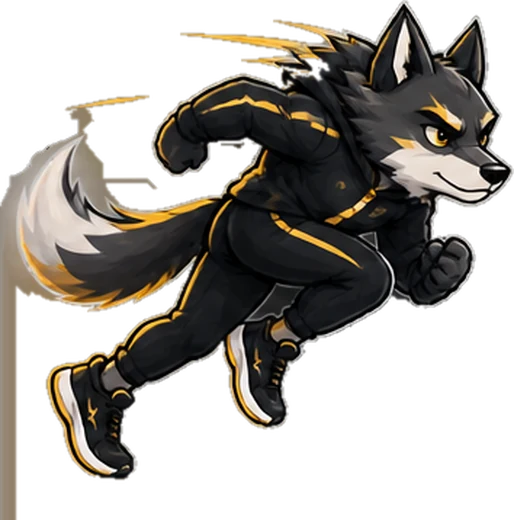
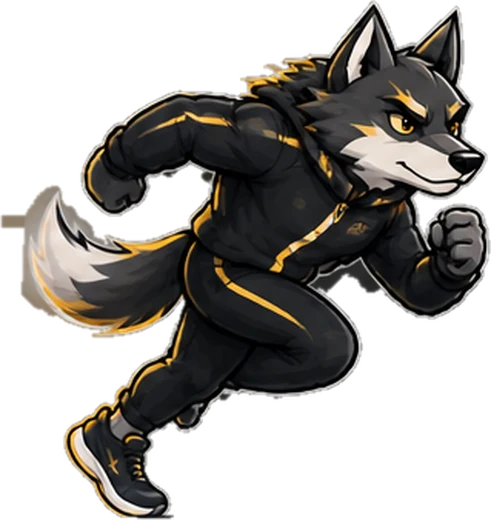
feat: el icono de Koda es el logotipo, y el personaje gana dos trabajos mas
El logotipo era un icono de linea sobre un degradado ambar hecho en CSS.
Ahora es el icono de aplicacion de verdad, el mismo fichero que se instala
en la pantalla de inicio del movil. No es ahorro: la pestaña, el marcador y
el icono del telefono tienen que ser reconociblemente la misma cosa. Va en
la cabecera y el pie de la portada y en el rail de la aplicacion.

En el avatar de cada mensaje sigue el icono de linea, por lo mismo que dice
el ADR-018: ahi lo que hace falta es saber quien hablo, y para eso un icono
es mejor que un retrato de 28 px.

Dos poses mas, cada una con su trabajo:

- Koda riendo cuando aparece un plan que antes no estaba. Se detecta
  comparando la huella del plan, y nunca en la primera carga: abrir la app
  con el plan de hace tres semanas no es una novedad que celebrar.
- Koda corriendo llena el hueco de "todavia no tienes plan". Era la unica
  pantalla vacia de verdad del panel, y un icono de linea gris en una
  pantalla vacia se lee como algo que fallo al cargar.

Para que la primera pueda dispararse, el panel del plan se recarga al
terminar cada turno. Hacia falta igualmente: Koda crea el plan con una
herramienta y el navegador no se enteraba, asi que el runner oia "ya te lo
arme" y el panel seguia enseñando el plan viejo. Solo repinta si de verdad
cambio algo, para no relanzar la cascada de entrada en cada frase.

Arreglado el recorte de la pose corriendo: la de la izquierda de la hoja
[…]

diff --git a/app/interfaces/web/app.js b/app/interfaces/web/app.js
@@ -193,14 +193,21 @@ function estado(texto) {
   estadoKoda.textContent = texto || ESTADO_EN_REPOSO;
 }
 
-/* La cara de la cabecera cambia de gesto cuando algo sale mal, y vuelve sola.
-   Es la unica expresion que se dispara: un personaje que sonrie en cada mensaje
-   deja de significar nada, y la queja de siempre de un chat es que el error se lee
-   igual que una respuesta normal. El gesto lo hace visible sin un cartel rojo.
+/* La cara de la cabecera cambia de gesto y vuelve sola. Solo dos cosas lo disparan,
+   y las dos son hechos, no estados de ánimo:
 
-   Las dos caras se precargan al arrancar; sin eso el cambio empieza con el hueco
-   en blanco y se lee como un fallo de carga, justo cuando ya hubo uno de verdad. */
-const CARAS = { normal: "/koda/cara.webp", duda: "/koda/cara-duda.webp" };
+   - algo falló — la queja de siempre de un chat es que un error se lee igual que
+     una respuesta normal; el gesto lo hace visible sin un cartel rojo;
+   - acabas de tener un plan que antes no tenías.
+
+   Un personaje que reacciona a cada mensaje deja de significar nada. Las caras se
+   precargan al arrancar; sin eso el cambio empieza con el hueco en blanco y se lee
+   como un fallo de carga, justo cuando a lo mejor ya hubo uno de verdad. */
+const CARAS = {
+  normal: "/koda/cara.webp",
+  duda: "/koda/cara-duda.webp",
+  celebra: "/koda/cara-rie.webp",
+};
 const caraKoda = document.getElementById("cara-koda");
 let vueltaAlaCalma = null;
 
@@ -370,6 +377,7 @@ async function enviarMensaje({ texto, audioBlob, foto, mensajeUsuarioYaPuesto = 
     }
     const data = await resp.json();
     respuesta.escribir(data.texto);
+    refrescarPlanTrasElTurno();
     if (data.audio_base64) reproducirMp3(data.audio_base64, respuesta);
   } catch {
     dejarDeEsperar();
@@ -688,6 +696,7 @@ function manejarMensajeVoz(evento) {
       sesionVoz.mensajeActual?.hablando(false);
       sesionVoz.rolActual = null;
       sesionVoz.mensajeActual = null;
+      refrescarPlanTrasElTurno();
       // Un turno por sesion en esta version: se cierra aqui, no al soltar el
       // boton. El audio ya agendado sigue sonando — finalizarSesionVoz() espera
       // a que termine antes de cerrar el AudioContext.
@@ -1306,13 +1315,20 @@ function pintarPlan(plan) {
   contenidoPlan.replaceChildren();
 
   if (!plan) {
-    contenidoPlan.appendChild(
-      nodoVacio(
-        "meta",
-        "Todavía no tienes plan",
-        "Dile a Koda qué carrera quieres correr y para cuándo. Te lo arma en el momento.",
-      ),
+    // Aquí Koda sale corriendo y no como un icono de línea: es la única pantalla del
+    // panel que está vacía de verdad, y un hueco con una silueta gris se lee como
+    // algo que falló al cargar. Con el personaje se lee como lo que es — todavía no
+    // hay nada porque no se lo has pedido.
+    const vacio = nodoVacio(
+      "meta",
+      "Todavía no tienes plan",
+      "Dile a Koda qué carrera quieres correr y para cuándo. Te lo arma en el momento.",
     );
+    vacio.classList.add("vacio-con-koda");
+    vacio.querySelector("svg")?.replaceWith(
+      Object.assign(new Image(491, 520), { src: "/koda/corriendo.webp", alt: "" }),
+    );
+    contenidoPlan.appendChild(vacio);
     return;
   }
 
@@ -1412,23 +1428,56 @@ function escalonarEntrada(contenedor) {
   contenedor.classList.add("escalonar");
 }
 
-async function cargarPlan({ abrir = true } = {}) {
+/* Lo que hace único a un plan. Sirve para saber si el que acaba de llegar es otro,
+   sin comparar el objeto entero: la API devuelve las semanas calculadas y dos
+   respuestas del mismo plan no tienen por qué ser idénticas byte a byte. */
+function huellaDelPlan(plan) {
+  return plan ? `${plan.distancia_km}|${plan.fecha_carrera}|${plan.fecha_inicio}` : null;
+}
+
+// undefined = todavía no se ha mirado nunca. Distinto de null, que es "se miró y no
+// hay plan": sin esa diferencia, abrir la app con un plan de hace tres semanas se
+// celebraría como si Koda acabara de armarlo.
+let planConocido;
+
+async function cargarPlan({ abrir = true, silencioso = false } = {}) {
   if (abrir) abrirPanel(panelPlan);
 
   // Esqueleto con la forma de lo que va a llegar, no una ruleta: cuando el
-  // contenido aparece no salta nada de sitio.
-  const esqueleto = crear("div", "esqueleto");
-  esqueleto.style.height = "190px";
-  contenidoPlan.replaceChildren(esqueleto);
+  // contenido aparece no salta nada de sitio. En la recarga de después de cada
+  // turno no se pone: el panel ya tiene contenido bueno delante y sustituirlo por
+  // un esqueleto sería un parpadeo por cada frase que dice Koda.
+  if (!silencioso) {
+    const esqueleto = crear("div", "esqueleto");
+    esqueleto.style.height = "190px";
+    contenidoPlan.replaceChildren(esqueleto);
+  }
 
   try {
     const resp = await fetch("/api/plan");
-    pintarPlan(resp.ok ? await resp.json() : null);
+    const plan = resp.ok ? await resp.json() : null;
+    const huella = huellaDelPlan(plan);
+    const cambio = huella !== planConocido;
+    if (planConocido !== undefined && huella && cambio) gesto("celebra");
+    planConocido = huella;
+    // En la recarga silenciosa solo se repinta si de verdad cambió algo. Repintar
+    // por repintar relanzaría la cascada de entrada de las tarjetas en cada frase
+    // que dice Koda, con el panel anclado y a la vista.
+    if (cambio || !silencioso) pintarPlan(plan);
   } catch {
+    if (silencioso) return; // el panel se queda como estaba; ya se avisará al abrirlo
     contenidoPlan.replaceChildren(
       nodoVacio("alerta", "No pude cargar tu plan", "Revisa tu conexión e inténtalo otra vez."),
     );
   }
+}
+
+/* Koda puede haber creado o cambiado el plan durante el turno — lo hace con una
+   herramienta, y el navegador no se entera. Sin esto, el panel enseñaba el plan
+   viejo hasta que al runner se le ocurría volver a abrirlo, justo después de oír
+   "ya te lo armé". */
+function refrescarPlanTrasElTurno() {
+  cargarPlan({ abrir: false, silencioso: true }).catch(() => {});
 }
 
 // =============================================================================

diff --git a/app/interfaces/web/styles.css b/app/interfaces/web/styles.css
@@ -408,20 +408,25 @@ label {
 
 /* --- La marca --------------------------------------------------------------- */
 
+/* El logotipo. Antes era un icono de linea sobre un degradado ambar hecho en CSS;
+   ahora es el icono de aplicacion de verdad, el mismo que se ve en la pantalla de
+   inicio del movil. Que el logotipo de la web y el icono instalado sean el mismo
+   fichero no es ahorro: es que la pestana, el marcador y el icono del movil tienen
+   que ser reconociblemente la misma cosa. */
 .marca {
   display: grid;
   place-items: center;
-  border-radius: var(--r-md);
-  background: linear-gradient(150deg, var(--alba), var(--amanecer-hondo));
-  color: #1f1400;
   box-shadow: var(--sombra-1);
+  border-radius: var(--r-md);
   flex-shrink: 0;
 }
 
-.marca svg {
-  width: 66%;
-  height: 66%;
+.marca img {
+  width: 100%;
+  height: 100%;
+  display: block;
 }
+
 
 .marca-sm {
   width: 34px;
@@ -1720,6 +1725,16 @@ label {
   width: 34px;
   height: 34px;
   color: var(--linea);
+}
+
+/* Cuando el hueco es "todavia no tienes plan", quien lo ocupa es Koda corriendo.
+   Un icono de linea gris en una pantalla vacia se lee como algo que fallo al
+   cargar; el personaje se lee como lo que es. */
+.vacio-con-koda img {
+  width: clamp(140px, 42%, 190px);
+  height: auto;
+  margin-bottom: calc(var(--e-2) * -1);
+  filter: drop-shadow(0 6px 16px rgba(0, 0, 0, 0.5));
 }
 
 .vacio strong {

diff --git a/app/interfaces/web/index.html b/app/interfaces/web/index.html
@@ -24,7 +24,7 @@
 
   <header class="barra">
     <a class="logo" href="/">
-      <span class="marca marca-sm"><svg aria-hidden="true"><use href="/iconos.svg#i-koda" /></svg></span>
+      <span class="marca marca-sm" aria-hidden="true"><img src="/iconos-app/icono-192.png" width="192" height="192" alt="" /></span>
       <span>Koda</span>
     </a>
     <nav class="enlaces-barra">
@@ -216,7 +216,7 @@
 
   <footer class="pie">
     <div class="ancho">
-      <span class="marca marca-sm"><svg aria-hidden="true"><use href="/iconos.svg#i-koda" /></svg></span>
+      <span class="marca marca-sm" aria-hidden="true"><img src="/iconos-app/icono-192.png" width="192" height="192" alt="" /></span>
       <p class="letra-chica">
         Koda ofrece orientación de entrenamiento, <strong>no consejo médico</strong>.
         Ante dolor persistente o una lesión, consulta a un profesional de la salud.

diff --git a/app/interfaces/web/app/index.html b/app/interfaces/web/app/index.html
@@ -66,7 +66,7 @@
          la cabecera, que es donde llega el pulgar. -->
     <nav class="rail" aria-label="Secciones">
       <span class="marca marca-md" aria-hidden="true">
-        <svg><use href="/iconos.svg#i-koda" /></svg>
+        <img src="/iconos-app/icono-192.png" width="192" height="192" alt="" />
       </span>
       <button type="button" class="boton-rail" data-abre="panel-plan">
         <svg aria-hidden="true"><use href="/iconos.svg#i-plan" /></svg>

diff --git a/scripts/recortar_mascota.py b/scripts/recortar_mascota.py
@@ -14,6 +14,12 @@ callejon sin salida, y nadie sabria como se hizo.
 
 El arte original va en el repo (en WebP sin perdida, la mitad que el PNG) porque sin
 el este fichero seria documentacion en vez de una herramienta.
+
+No todas las poses de la hoja salen. Las que caen en la esquina oscura — el lobo con
+gafas y el de cuerpo entero — tienen un chandal negro pegado a un fondo casi negro,
+y sin un contorno claro que los separe no hay umbral que valga: o se come el chandal
+o deja el fondo. Se recortan las que si salen limpias y se prescinde del resto, que
+es mas honesto que publicar un recorte con agujeros.
 """
 
 from __future__ import annotations
@@ -31,7 +37,12 @@ ICONOS = RAIZ / "app" / "interfaces" / "web" / "iconos-app"
 # Cuanto se puede alejar un pixel del vecino desde el que crece la region antes de
 # considerarlo parte del dibujo. El fondo es un degradado, asi que comparar contra
 # un color fijo no sirve: hay que comparar contra el vecino.
-TOLERANCIA = 40
+#
+# Tambien va por recorte. Donde el fondo es oscuro, el lobo tambien lo es y el muro
+# de luminancia no separa nada: lo unico que los distingue es el contorno claro, y
+# para no treparlo por su antialias hay que exigir saltos pequenos. Donde el fondo es
+# claro y uniforme se puede ser generoso y limpiar tambien la sombra.
+TOLERANCIA_POR_DEFECTO = 40
 
 # Luminancia a partir de la cual un pixel deja de poder ser fondo. Cada pose viene
 # rodeada de un contorno claro, y ese contorno es el muro que para la region: sin
@@ -52,15 +63,23 @@ MURO_POR_DEFECTO = 168
 # Caja en la hoja (1536x1024), altura final en pixeles CSS x2 (pantallas densas),
 # suelo y muro. Las cajas van holgadas a proposito: la region crece desde el borde,
 # asi que el borde tiene que ser fondo limpio. Lo que sobre lo quita el recorte.
-RECORTES: dict[str, tuple[tuple[int, int, int, int], int, int, int]] = {
+# nombre: (caja, altura final, suelo, muro, tolerancia)
+RECORTES: dict[str, tuple[tuple[int, int, int, int], int, int, int, int]] = {
     # La cara neutra es la que mas se ve: cabecera del chat y tarjeta de entrar.
-    "cara": ((382, 0, 648, 282), 256, 0, 168),
-    # Ojos cerrados y sonrisa: cuando algo sale bien.
-    "cara-contento": ((886, 0, 1136, 272), 256, 0, 168),
-    # Con gota de sudor: cuando Koda dice que no o algo falla.
-    "cara-duda": ((1338, 414, 1536, 586), 256, 0, 168),
-    # Corriendo. Va en el cierre de la portada.
-    "corriendo": ((362, 268, 730, 660), 520, 44, 128),
+    "cara": ((382, 0, 648, 282), 256, 0, 168, 40),
+    # Ojos cerrados y sonrisa: la bienvenida.
+    "cara-contento": ((886, 0, 1136, 272), 256, 0, 168, 40),
+    # Con gota de sudor: cuando algo falla.
+    "cara-duda": ((1338, 414, 1536, 586), 256, 0, 168, 40),
+    # Riendo: cuando acaba de crearte el plan. Tolerancia corta porque aqui el fondo
+    # de la hoja es oscuro y el muro de luminancia no separa a un lobo negro de el:
+    # lo unico que los distingue es el contorno claro, y para no treparlo por su
+    # antialias hay que exigir saltos pequenos.
+    "cara-rie": ((1330, 556, 1536, 788), 256, 0, 168, 14),
+    # Corriendo. Se usa la pose de la derecha de la hoja y no la de la izquierda:
+    # aquella tiene pegado un objeto de la vecina que le sale por detras de la cola,
+    # y como esta unido al dibujo, quedarse con la mancha grande no lo quita.
+    "corriendo": ((1006, 262, 1364, 676), 520, 44, 128, 40),
 }
 
 # El icono de aplicacion ya viene cuadrado y con sus esquinas redondeadas: solo hay
@@ -68,7 +87,12 @@ RECORTES: dict[str, tuple[tuple[int, int, int, int], int, int, int]] = {
 TAMANOS_ICONO = (32, 180, 192, 512)
 
 
-def quitar_fondo(imagen: Image.Image, suelo: int = 0, muro: int = MURO_POR_DEFECTO) -> Image.Image:
+def quitar_fondo(
+    imagen: Image.Image,
+    suelo: int = 0,
+    muro: int = MURO_POR_DEFECTO,
+    tolerancia: int = TOLERANCIA_POR_DEFECTO,
+) -> Image.Image:
     """Borra el fondo creciendo una region desde los bordes hacia dentro.
 
     Un `floodfill` normal compara cada pixel contra el del punto de partida, y aqui
@@ -102,7 +126,7 @@ def quitar_fondo(imagen: Image.Image, suelo: int = 0, muro: int = MURO_POR_DEFEC
         encolar(0, y)
         encolar(ancho - 1, y)
 
-    limite = TOLERANCIA * TOLERANCIA * 3
+    limite = tolerancia * tolerancia * 3
     while cola:
         x, y, (pr, pg, pb) = cola.popleft()
         for dx, dy in ((1, 0), (-1, 0), (0, 1), (0, -1)):
@@ -188,8 +212,8 @@ def main() -> int:
     ICONOS.mkdir(parents=True, exist_ok=True)
 
     hoja = Image.open(hoja_ruta).convert("RGBA")
-    for nombre, (caja, altura, suelo, muro) in RECORTES.items():
-        sin_fondo = quitar_fondo(hoja.crop(caja), suelo, muro)
+    for nombre, (caja, altura, suelo, muro, tolerancia) in RECORTES.items():
+        sin_fondo = quitar_fondo(hoja.crop(caja), suelo, muro, tolerancia)
         pose = recortar_a_lo_que_pinta(dejar_solo_la_pieza_grande(sin_fondo))
         ancho = round(pose.width * altura / pose.height)
         pose = pose.resize((ancho, altura), Image.Resampling.LANCZOS)
